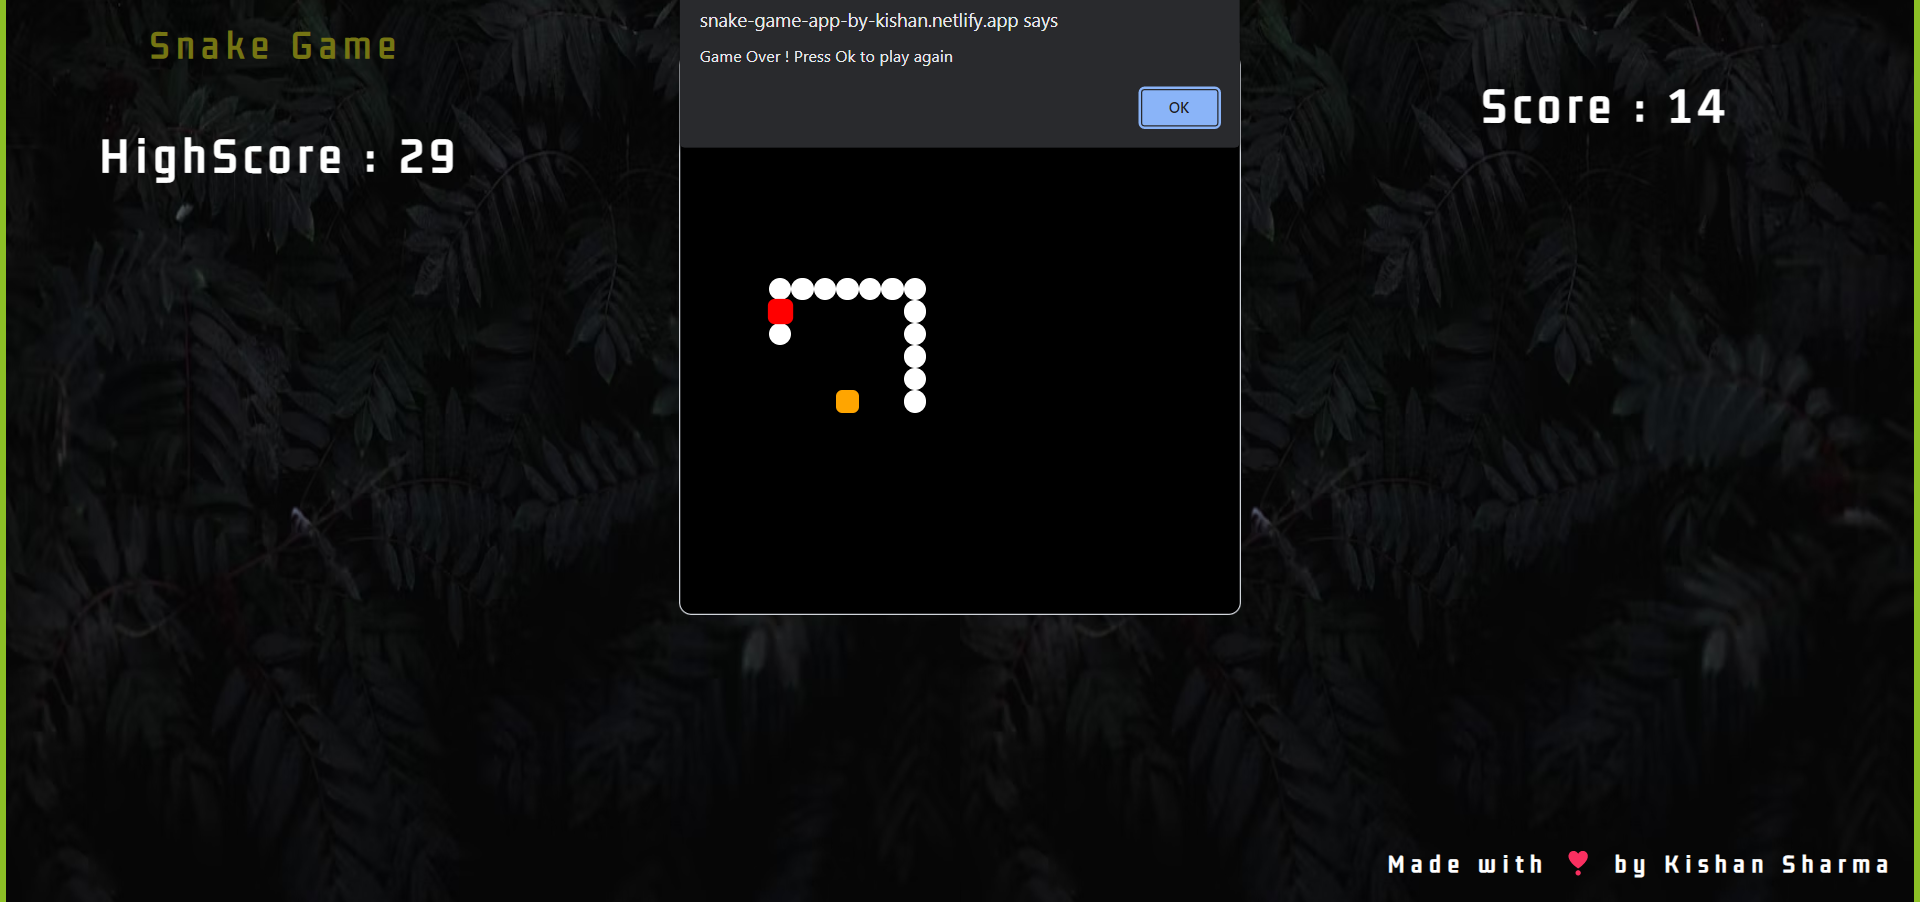
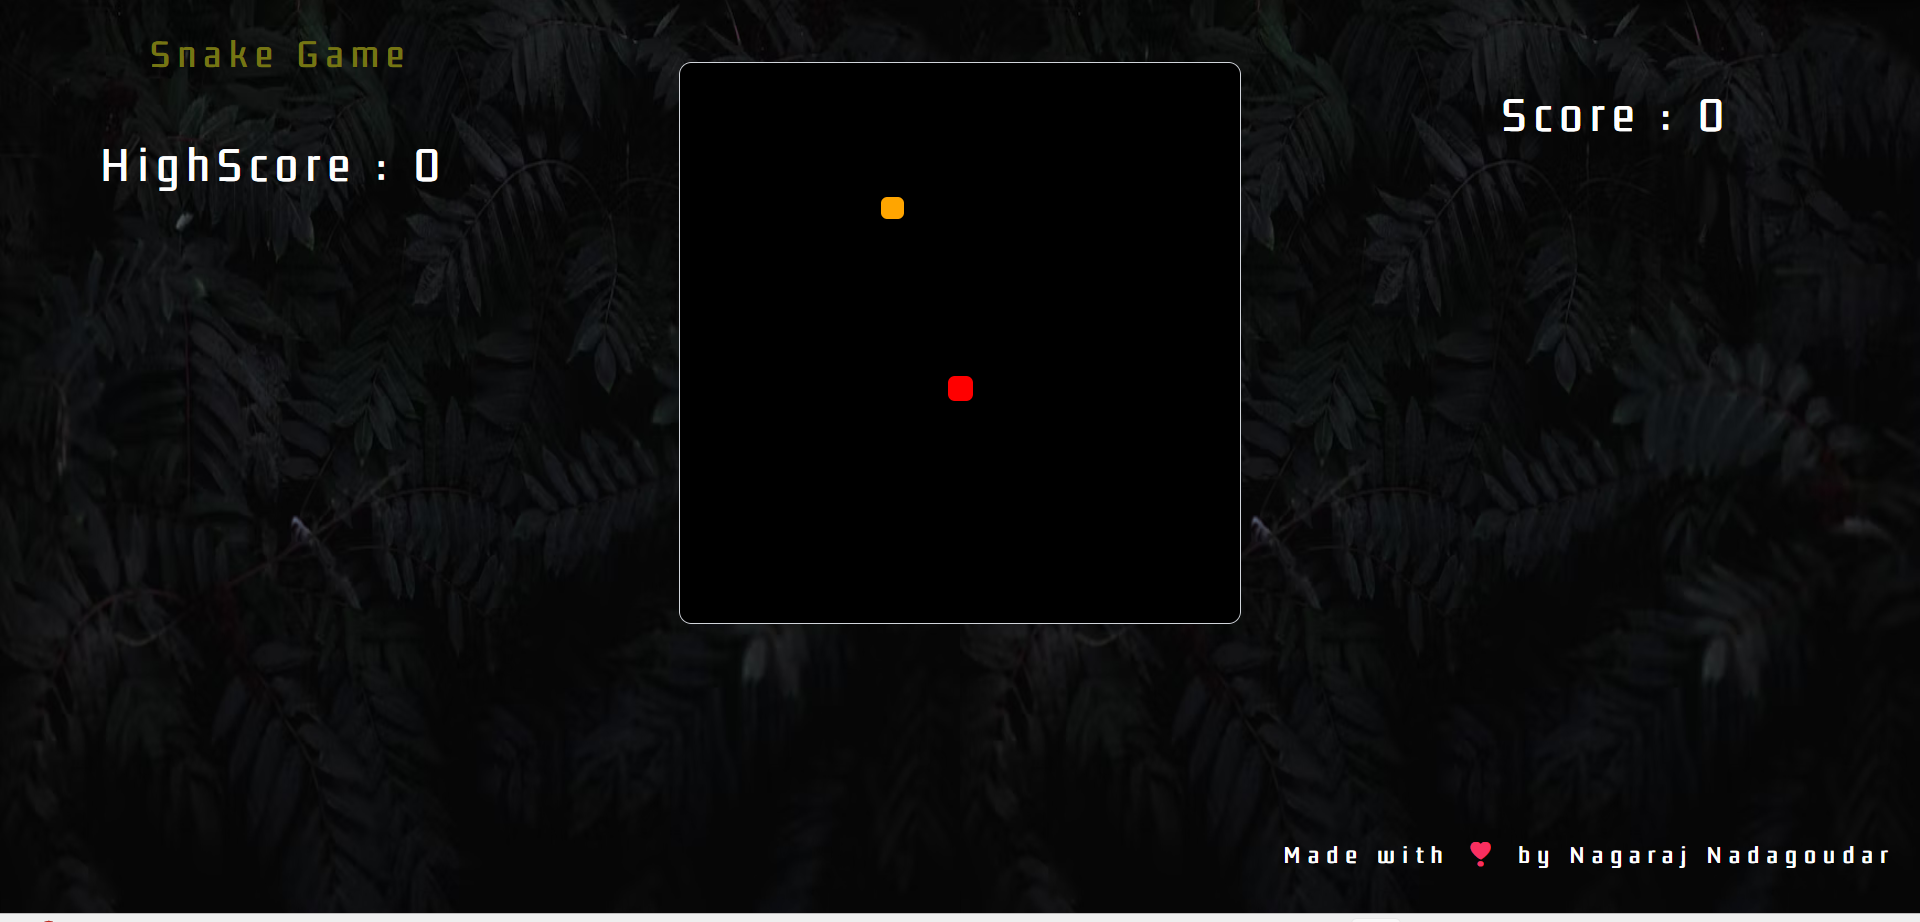
df

diff --git a/index.html b/index.html
@@ -165,15 +165,15 @@
       <hr />
       <div>
         <div class="project-card">
-          <img src="./images/meesho.png" alt="" />
-          <p class="project-title">Meesho Clone</p>
+          <img src="./images/auto.png" alt="" />
+          <p class="project-title">Auto Empire</p>
           <div class="project-description">
             <p>
-              <b> OverStock </b>Create a Meesho clone website with features like user registration, product catalog, store creation, order processing, and commission management.
+              <b> OverStock </b>Create a Autozone clone website with features like user registration, product catalog, store creation, order processing, and commission management.
             </p>
 
             <p>
-              <b> Features : </b> Login/Logout, SignUp, Product & Product Detail Page. Cart Page, Admin Side Website
+              <b> Features : </b> Login/Logout, SignUp, Product & Product Detail Page. Cart Page, 
             </p>
           </div>
           <div class="techstack">
@@ -184,13 +184,13 @@
           </div>
           <div class="projectlinks">
             <br />
-            <a target="_blank" href="https://github.com/Mrkishansharma/-bouncy-invention-713"
+            <a target="_blank" href="https://github.com/nagaraj7022/greasy-sofa-2441"
               class="project-github-link">Github</a>
-            <a target="_blank" href="https://bazaarbuddy.netlify.app/" class="project-deployed-link">Deployed</a>
+            <a target="_blank" href="https://warm-smakager-4c3b83.netlify.app/" class="project-deployed-link">Deployed</a>
           </div>
         </div>
 
-        <div class="project-card">
+        <!-- <div class="project-card">
           <img src="/images/quikr.png" alt="" />
           <p class="project-title">Quikr Bazaar Clone</p>
           <div class="project-description">
@@ -240,7 +240,7 @@
             <a target="_blank" href="https://todo-app-stech.netlify.app/"
               class="project-deployed-link">Deployed</a>
           </div>
-        </div>
+        </div> -->
 
         <div class="project-card">
           <img src="/images/snake.png" alt="" />
@@ -261,9 +261,9 @@
           </div>
           <div class="projectlinks">
             <br />
-            <a target="_blank" href="https://github.com/Mrkishansharma/Snake-Game"
+            <a target="_blank" href="https://github.com/nagaraj7022/Snake-Game-main"
               class="project-github-link">Github</a>
-            <a target="_blank" href="https://snake-game-app-by-kishan.netlify.app/"
+            <a target="_blank" href="https://647ed20753c1bc69c2b28ed5--snazzy-snickerdoodle-04577a.netlify.app/"
               class="project-deployed-link">Deployed</a>
           </div>
         </div>
